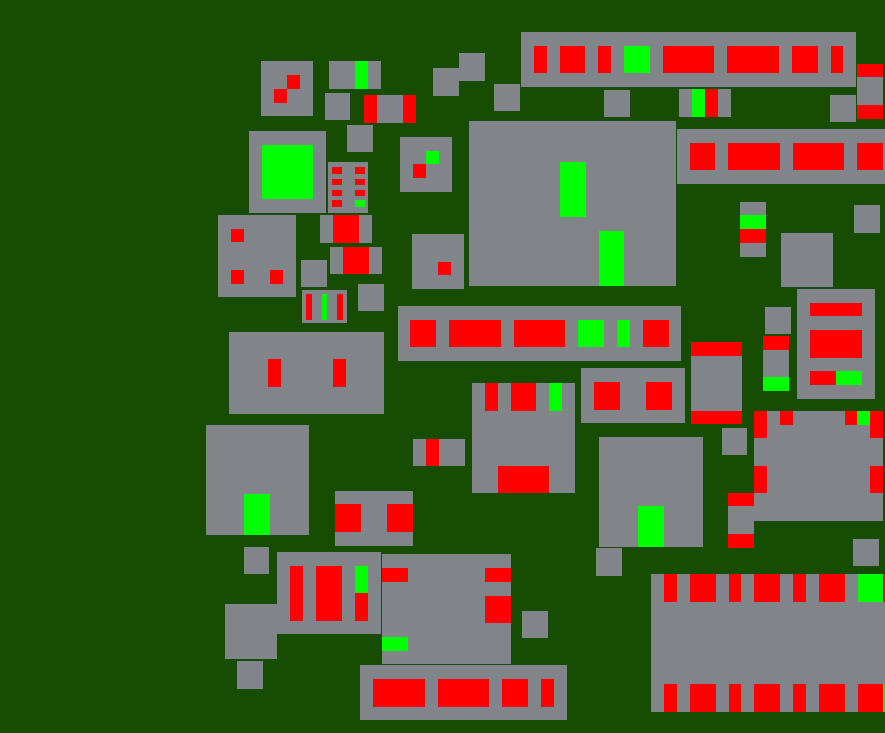
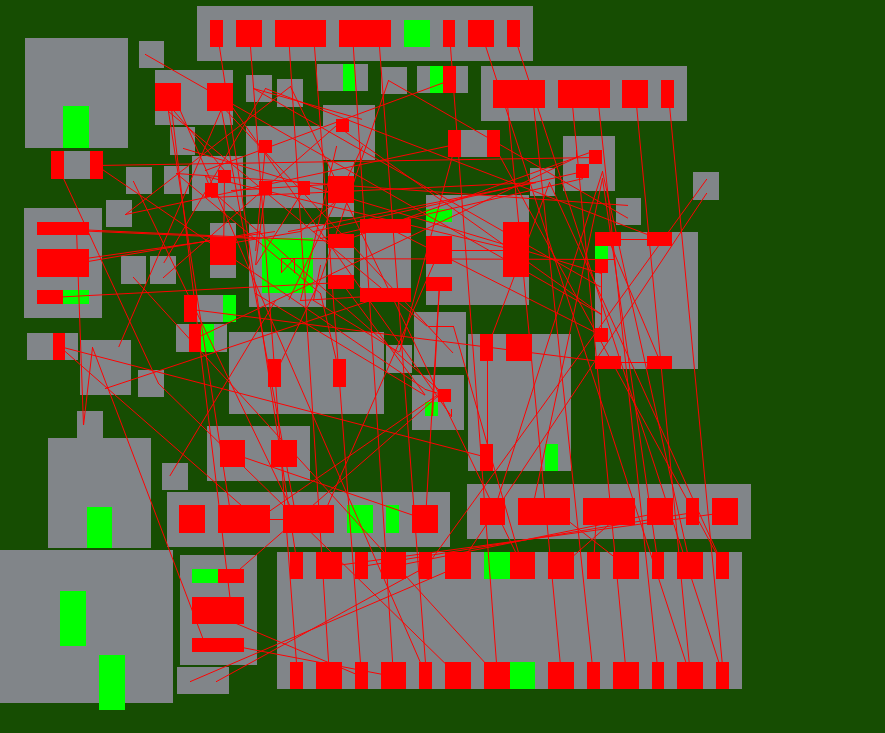
add nets sort of

diff --git a/pcb-layout/src/main.rs b/pcb-layout/src/main.rs
@@ -18,6 +18,19 @@ fn random_rotation() -> i32 {
     let choice = opts.choose(&mut rng).unwrap();
     *choice
 }
+fn draw_nets( pins_by_net : BTreeMap<i32, Vec<(f64,f64)>>)  -> Vec<PathElement<(f64,f64)>>{
+    println!("{:?}", pins_by_net);
+    let mut end_v:Vec<PathElement<(f64,f64)>>  = Vec::new();
+    for v in pins_by_net.values(){
+        let tmp_points = v.clone();
+        end_v.push(PathElement::new(
+            tmp_points,
+            &RED));
+    }
+    end_v
+}
+/* 
+ */
 struct Individual {
     comp_list: Vec<Component>,
     pl_area: Bbox,
@@ -41,6 +54,10 @@ impl Individual {
         let pl_width = scale * (self.pl_area.get_width_fl() + padding * 2.0);
         let pl_height = scale * (self.pl_area.get_height_fl() + padding * 2.0);
         //let style = TextStyle::from(("sans-serif", scale).into_font()).color(&RED);
+        let mut pins_by_net : BTreeMap<i32, Vec<(f64,f64)>> = BTreeMap::new();
+        for k in net_map.keys(){
+            pins_by_net.insert(*k, Vec::new());
+        }
         let backend = BitMapBackend::new(
             output_path,
             (pl_width.floor() as u32, pl_height.round() as u32),
@@ -61,13 +78,26 @@ impl Individual {
             let _ = backend.draw(&i.bbox.plot(&RGBColor(129, 133, 137)));
             for p in &i.pins {
                 let net_name = net_map.get(&p.net).unwrap();
+                
                 if net_name.to_lowercase() == "gnd" {
                     let _ = backend.draw(&p.bbox.plot(&GREEN));
                 } else {
                     let _ = backend.draw(&p.bbox.plot(&RED));
+                    let my_vec = pins_by_net.get_mut(&p.net);
+                    match my_vec {
+                        Some(vec) => {
+                            vec.push((p.bbox.centerx, p.bbox.centery));
+                        },
+                        None => {}
+                    }
                 }
                 //backend.draw(&label_pin(p));
             }
+        }
+        let net_paths = draw_nets(pins_by_net);
+        println!("{}",net_paths.len());
+        for path in net_paths{
+            let _ = backend.draw(&path);
         }
         let _ = backend.present();
         /*

diff --git a/little-notebook.md b/little-notebook.md
@@ -13,7 +13,7 @@ Checking overlap is hard too. Current naive implementation doesn't check on move
 Okay I think were ready to implement this for real ish
 ## ToDo
 - real genome rep
-- Scoring? 
+- ~~Scoring?~~ 
 - Actual algo still (the fun part with a GA is this is pretty easy)
 
 running into a problem of how to only allow valid moves, need to make sure a move
@@ -44,13 +44,13 @@ It should also be noted we are SURELY being helped by starting from a "placed" b
 
 
 # TODOs
-- change selection criteria
-- Parallel 
+- ~~change selection criteria~~
+- Parallel
 - SPEED UP
-- actually plot nets
+- ~~actually plot nets~~
 - shape traits for placment, comp, pin , bbox
 - add from scratch fn
-- CLI 
+- ~~CLI~~
 
 ## Notes again. 
 - We calc score on every one on the sort. That is definetly inefficent to some degree. 
@@ -58,5 +58,7 @@ It should also be noted we are SURELY being helped by starting from a "placed" b
 ## Fixes
 - added fitness field to class. Now only calc when mutate (should add a check to only calc when successful)
 - added rough ev selector, think I want to add my weighting function to the elitist plan too
+- add net plot, need to change it to ordered by distance sort of, just so its actually visible. I also need to figure out whats going on with my pins. They are there but aren't getting plotted.
+
 
 
